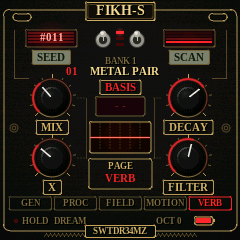
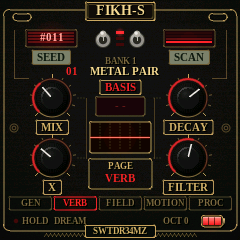
Seiten getauscht: FX = VERB (nochmal: VERB 2), LFO = PROC
Die Reiter unten folgen der Reihenfolge der Knöpfe: GEN, VERB, FIELD, MOTION, PROC.
Tests, Handbücher und Bilder angepasst. Version 0.4.1.

Claude-Session: https://claude.ai/code/session_019gwqiMzEiXedJvtvMa49NR

Changed region(s): [[0.6417, 0.8167, 0.9917, 0.9625], [0.2042, 0.8167, 0.4083, 0.9042]]

diff --git a/app.c b/app.c
@@ -176,17 +176,17 @@ static void e_off(int note)
 }
 
 /* ------------------------------------------------------------------ Seiten --- */
-enum { PG_GEN, PG_PROC, PG_FIELD, PG_MOTION, PG_VERB, PG_VERB2, NPAGES };
+enum { PG_GEN, PG_VERB, PG_FIELD, PG_MOTION, PG_PROC, PG_VERB2, NPAGES };
 #define NTABS 5
-static const char *const PAGE_NAME[NPAGES] = {"GEN", "PROC", "FIELD", "MOTION", "VERB", "VERB 2"};
-static const uint8_t PAGE_BTN[NPAGES] = {B_HOME, B_FX, B_ENV, B_EDIT, B_LFO, B_LFO};
+static const char *const PAGE_NAME[NPAGES] = {"GEN", "VERB", "FIELD", "MOTION", "PROC", "VERB 2"};
+static const uint8_t PAGE_BTN[NPAGES] = {B_HOME, B_FX, B_ENV, B_EDIT, B_LFO, B_FX};
 static int page_tab(int pg) { return pg == PG_VERB2 ? PG_VERB : pg; }
 static const uint8_t PAGE_K[NPAGES][4] = {
     {P_WARP, P_SPAN, P_MORPH, P_FUSE},
-    {P_MIX, P_FEED, P_FORM, P_TIME},
+    {P_VMIX, P_VDECAY, P_VX, P_VFILT},
     {P_FIELD, P_CELL, P_ATK, P_REL},
     {P_GLIDE, P_DRIFT, P_WIDTH, P_LEVEL},
-    {P_VMIX, P_VDECAY, P_VX, P_VFILT},
+    {P_MIX, P_FEED, P_FORM, P_TIME},
     {P_VMODE, P_VDEPTH, P_VRATE, P_VSTRETCH},
 };
 
@@ -536,7 +536,7 @@ static void keys_input(uint32_t keys)
 static void button(uint32_t i)
 {
     int pg;
-    if (i == B_LFO) {                    /* VERB, nochmal: VERB 2 */
+    if (i == B_FX) {                     /* VERB, nochmal: VERB 2 */
         page_set(ui.page == PG_VERB ? PG_VERB2 : PG_VERB);
         return;
     }

diff --git a/README.md b/README.md
@@ -22,10 +22,10 @@ any FM-1 firmware. It runs on both FM-1 chips.
 | --- | --- |
 | Keys | **BASIS**: the root of every oscillator. Mono, the last key wins, with velocity |
 | HOME | **GEN**: WARP, SPAN, MORPH, FUSE |
-| FX | **PROC**: MIX, FEED, FORM, TIME |
+| FX | **VERB**: MIX, DECAY, X, FILTER; again **VERB 2**: MODE, DEPTH, RATE, STRETCH (the reverb, the same for every algorithm) |
 | ENV | **FIELD**: FIELD (filter), CELL (frequency shift), ATTACK, RELEASE |
 | EDIT | **MOTION**: GLIDE, DRIFT, WIDTH, LEVEL |
-| LFO | **VERB**: MIX, DECAY, X, FILTER; again **VERB 2**: MODE, DEPTH, RATE, STRETCH (the reverb, the same for every algorithm) |
+| LFO | **PROC**: MIX, FEED, FORM, TIME |
 | SELECT | **SEED**: every detent a new throw of the dice (offsets, wave offsets, delay taps) |
 | ALGORITHM | **SCAN**: scans random timbres, coarse for playing live |
 | PRESET | The algorithm, 1 to 22 (BANK 1: 1-9, BANK 2: 10-18, BANK 3: 19-22). Each keeps its own knobs |

diff --git a/docs/HANDBUCH.md b/docs/HANDBUCH.md
@@ -31,10 +31,10 @@ darin.
 | --- | --- |
 | Tasten | **BASIS**: der Grundton aller Oszillatoren. Mono, die letzte Taste gewinnt, mit Anschlag |
 | HOME | Seite **GEN**: WARP, SPAN, MORPH, FUSE |
-| FX | Seite **PROC**: MIX, FEED, FORM, TIME |
+| FX | Seite **VERB**: MIX, DECAY, X, FILTER; nochmal: **VERB 2**: MODE, DEPTH, RATE, STRETCH |
 | ENV | Seite **FIELD**: FIELD, CELL, ATTACK, RELEASE |
 | EDIT | Seite **MOTION**: GLIDE, DRIFT, WIDTH, LEVEL |
-| LFO | Seite **VERB**: MIX, DECAY, X, FILTER; nochmal: **VERB 2**: MODE, DEPTH, RATE, STRETCH |
+| LFO | Seite **PROC**: MIX, FEED, FORM, TIME |
 | SELECT | **SEED**: jede Raste ein neuer Wurf |
 | ALGORITHM | **SCAN**: grob, damit man live schnell hinkommt |
 | PRESET | der Algorithmus 1 bis 22 (BANK 1: 1–9, BANK 2: 10–18, BANK 3: 19–22). Jeder behält seine eigenen Reglerstellungen |

diff --git a/docs/MANUAL.md b/docs/MANUAL.md
@@ -24,10 +24,10 @@ pages, HOLD (and FREEZE or ECO), the octave and the battery.
 | --- | --- |
 | Keys | **BASIS**: the root of every oscillator. Mono, the last key wins, with velocity |
 | HOME | page **GEN**: WARP, SPAN, MORPH, FUSE |
-| FX | page **PROC**: MIX, FEED, FORM, TIME |
+| FX | page **VERB**: MIX, DECAY, X, FILTER; again **VERB 2**: MODE, DEPTH, RATE, STRETCH |
 | ENV | page **FIELD**: FIELD, CELL, ATTACK, RELEASE |
 | EDIT | page **MOTION**: GLIDE, DRIFT, WIDTH, LEVEL |
-| LFO | page **VERB**: MIX, DECAY, X, FILTER; again **VERB 2**: MODE, DEPTH, RATE, STRETCH |
+| LFO | page **PROC**: MIX, FEED, FORM, TIME |
 | SELECT | **SEED**: every detent a new throw |
 | ALGORITHM | **SCAN**, coarse, for playing live |
 | PRESET | the algorithm, 1 to 22 (BANK 1: 1-9, BANK 2: 10-18, BANK 3: 19-22); each keeps its own knobs |
